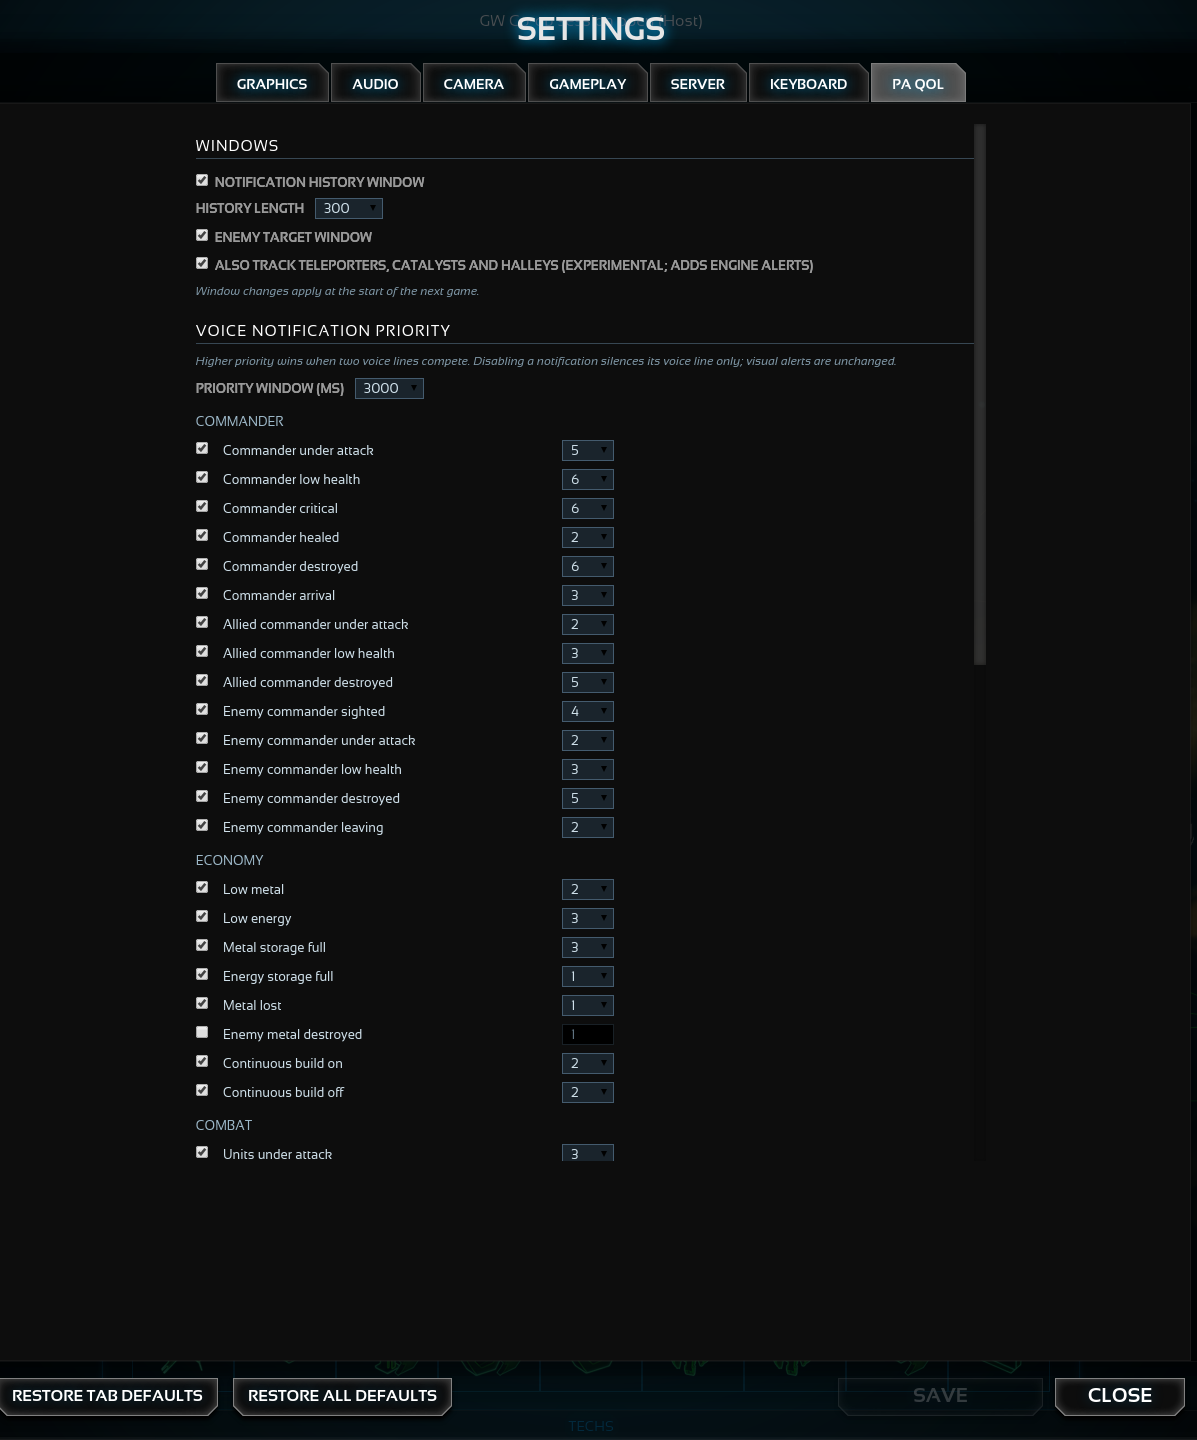
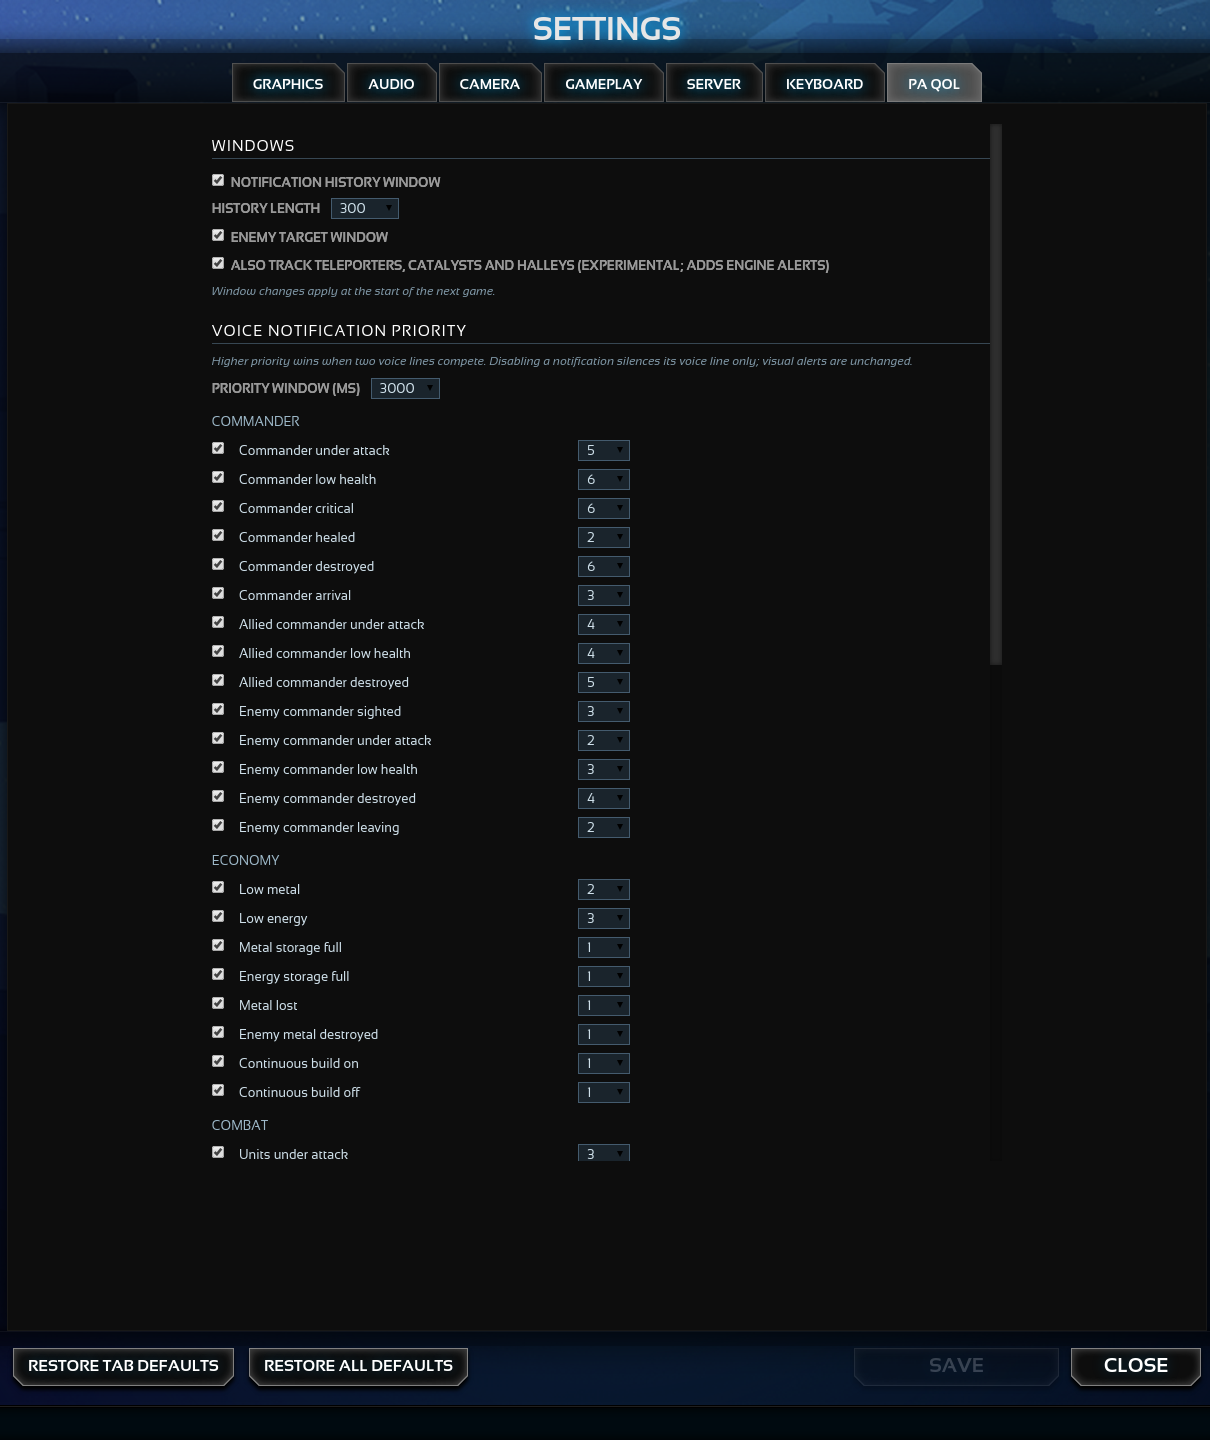
feat: widened watch lists (teleporters/Catalysts/Halleys) on by default
Users who explicitly saved it off keep their choice.

diff --git a/ui/mods/com.lem0.pa-qol/features/settings_tab/feature.js b/ui/mods/com.lem0.pa-qol/features/settings_tab/feature.js
@@ -73,7 +73,7 @@
                 self.historyEnabled = ko.observable(prefs.historyEnabled !== false);
                 self.historyCap = ko.observable(typeof prefs.historyCap === 'number' ? prefs.historyCap : 300);
                 self.hvtEnabled = ko.observable(prefs.hvtEnabled !== false);
-                self.hvtWidenWatchlist = ko.observable(prefs.hvtWidenWatchlist === true);
+                self.hvtWidenWatchlist = ko.observable(prefs.hvtWidenWatchlist !== false);
                 self.arbiterWindowMs = ko.observable(
                     typeof prefs.arbiterWindowMs === 'number' ? prefs.arbiterWindowMs : 3000);
                 self.capOptions = [100, 300, 500, 1000, 2000];
@@ -113,7 +113,7 @@
                     self.historyEnabled(true);
                     self.historyCap(300);
                     self.hvtEnabled(true);
-                    self.hvtWidenWatchlist(false);
+                    self.hvtWidenWatchlist(true);
                     self.arbiterWindowMs(3000);
                 };
 

diff --git a/ui/mods/com.lem0.pa-qol/features/qol_windows/host.js b/ui/mods/com.lem0.pa-qol/features/qol_windows/host.js
@@ -218,8 +218,10 @@
             }, 'model.processExternalUnitEvent');
 
             // ------------------------------------------ widened watch lists
-            // Opt-in: teleporters/Catalysts/Halleys generate sight alerts.
-            if (prefs.hvtWidenWatchlist === true && prefs.hvtEnabled !== false) {
+            // On by default: teleporters/Catalysts/Halleys generate sight
+            // alerts too. Disable in Settings -> PA QOL if the alert volume
+            // bothers you.
+            if (prefs.hvtWidenWatchlist !== false && prefs.hvtEnabled !== false) {
                 paqol.safeWrap(model, 'setupWatchList', function (callOriginal) {
                     var result = callOriginal();
                     if (window.engine && typeof engine.call === 'function') {

diff --git a/ui/mods/com.lem0.pa-qol/features/settings_tab/pane.html b/ui/mods/com.lem0.pa-qol/features/settings_tab/pane.html
@@ -17,7 +17,7 @@
             </div>
             <div class="paqol-settings-row">
                 <label><input type="checkbox" data-bind="checked: hvtWidenWatchlist, enable: hvtEnabled" />
-                    <loc>Also track teleporters, Catalysts and Halleys (experimental; adds engine alerts)</loc></label>
+                    <loc>Also track teleporters, Catalysts and Halleys (adds engine alerts)</loc></label>
             </div>
             <div class="paqol-settings-note">
                 <loc>Window changes apply at the start of the next game.</loc>

diff --git a/ui/mods/com.lem0.pa-qol/features/notify_priority/defaults.js b/ui/mods/com.lem0.pa-qol/features/notify_priority/defaults.js
@@ -123,7 +123,7 @@
                 historyEnabled: true,
                 historyCap: 300,
                 hvtEnabled: true,
-                hvtWidenWatchlist: false,
+                hvtWidenWatchlist: true,
                 arbiterWindowMs: 3000
             },
             validate: function (d) {

diff --git a/ui/mods/com.lem0.pa-qol/core/ns.js b/ui/mods/com.lem0.pa-qol/core/ns.js
@@ -4,7 +4,7 @@ var paqol = window.paqol || {};
 window.paqol = paqol;
 
 paqol.MOD_ID = 'com.lem0.pa-qol';
-paqol.VERSION = '0.2.3';
+paqol.VERSION = '0.2.4';
 paqol.URL = 'coui://ui/mods/com.lem0.pa-qol/';
 
 // Per-scene load guard (Rule 3: idempotent initialization).
